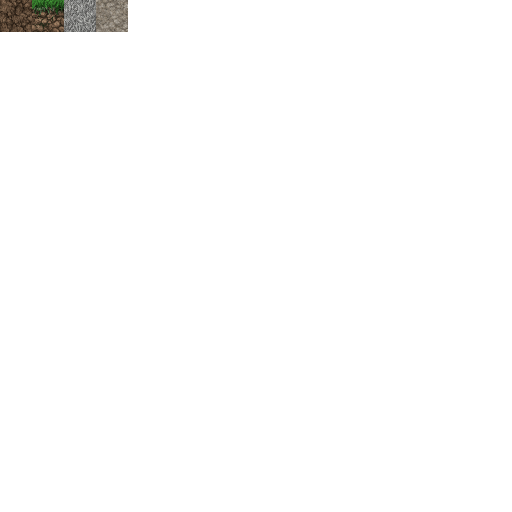
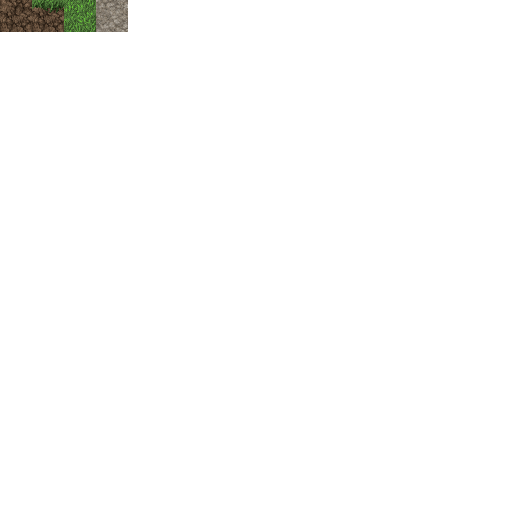
block face support

Changed region(s): [[0.0625, 0.0, 0.1875, 0.0625]]

diff --git a/engine/src/renderer.c b/engine/src/renderer.c
@@ -20,6 +20,7 @@ static void renderer_create_full_screen_buffer(void);
 static void renderer_create_chunk_mask_buffer(void);
 static void renderer_create_chunk_vertex_buffer(void);
 static void renderer_create_chunk_index_buffer(void);
+static void renderer_create_block_buffer(void);
 
 static void renderer_create_chunk_data_image(void);
 static void renderer_create_block_atlas_image(void);
@@ -179,7 +180,7 @@ static VkDescriptorPoolSize const s_vdb_mask_generator_descriptor_pool_size[] = 
 static VkDescriptorPoolSize const s_vdb_greedy_mesher_descriptor_pool_size[] = {
   {
     .type = VK_DESCRIPTOR_TYPE_STORAGE_BUFFER,
-    .descriptorCount = 4,
+    .descriptorCount = 5,
   },
   {
     .type = VK_DESCRIPTOR_TYPE_STORAGE_IMAGE,
@@ -310,6 +311,13 @@ static VkDescriptorSetLayoutBinding const s_vdb_greedy_mesher_descriptor_set_lay
   },
   {
     .binding = 4,
+    .descriptorType = VK_DESCRIPTOR_TYPE_STORAGE_BUFFER,
+    .descriptorCount = 1,
+    .stageFlags = VK_SHADER_STAGE_COMPUTE_BIT,
+    .pImmutableSamplers = 0,
+  },
+  {
+    .binding = 5,
     .descriptorType = VK_DESCRIPTOR_TYPE_STORAGE_IMAGE,
     .descriptorCount = 1,
     .stageFlags = VK_SHADER_STAGE_COMPUTE_BIT,
@@ -525,6 +533,12 @@ static buffer_t s_chunk_mask_buffer = {
   .buffer_usage_flags = VK_BUFFER_USAGE_STORAGE_BUFFER_BIT,
   .memory_property_flags = VK_MEMORY_PROPERTY_DEVICE_LOCAL_BIT,
 };
+static buffer_t s_block_buffer = {
+  .host_data = g_block,
+  .size = sizeof(g_block),
+  .buffer_usage_flags = VK_BUFFER_USAGE_STORAGE_BUFFER_BIT,
+  .memory_property_flags = VK_MEMORY_PROPERTY_DEVICE_LOCAL_BIT,
+};
 
 static buffer_t *s_chunk_vertex_buffer = 0;
 static buffer_t *s_chunk_index_buffer = 0;
@@ -555,6 +569,7 @@ static VkDescriptorBufferInfo s_chunk_info_descriptor_buffer_info = {0};
 static VkDescriptorBufferInfo s_place_info_descriptor_buffer_info = {0};
 static VkDescriptorBufferInfo s_place_result_descriptor_buffer_info = {0};
 static VkDescriptorBufferInfo s_chunk_mask_descriptor_buffer_info = {0};
+static VkDescriptorBufferInfo s_block_descriptor_buffer_info = {0};
 
 static VkDescriptorBufferInfo *s_chunk_vertex_descriptor_buffer_info = 0;
 static VkDescriptorBufferInfo *s_chunk_index_descriptor_buffer_info = 0;
@@ -574,6 +589,7 @@ void renderer_create(void) {
   renderer_create_chunk_mask_buffer();
   renderer_create_chunk_vertex_buffer();
   renderer_create_chunk_index_buffer();
+  renderer_create_block_buffer();
 
   renderer_create_chunk_data_image();
   renderer_create_block_atlas_image();
@@ -972,6 +988,13 @@ static void renderer_create_chunk_index_buffer(void) {
     chunk_index++;
   }
 }
+static void renderer_create_block_buffer(void) {
+  buffer_create(&s_block_buffer);
+
+  s_block_descriptor_buffer_info.offset = 0;
+  s_block_descriptor_buffer_info.buffer = s_block_buffer.buffer_handle;
+  s_block_descriptor_buffer_info.range = VK_WHOLE_SIZE;
+}
 
 static void renderer_create_chunk_data_image(void) {
   s_chunk_data_image = (image_t *)HEAP_ALLOC(sizeof(image_t) * CHUNK_COUNT, 1, 0);
@@ -1206,6 +1229,18 @@ static void renderer_update_vdb_greedy_mesher_descriptor_set(void) {
         .pNext = 0,
         .dstSet = s_vdb_greedy_mesher_pipeline.descriptor_set[chunk_index],
         .dstBinding = 4,
+        .dstArrayElement = 0,
+        .descriptorType = VK_DESCRIPTOR_TYPE_STORAGE_BUFFER,
+        .descriptorCount = 1,
+        .pImageInfo = 0,
+        .pBufferInfo = &s_block_descriptor_buffer_info,
+        .pTexelBufferView = 0,
+      },
+      {
+        .sType = VK_STRUCTURE_TYPE_WRITE_DESCRIPTOR_SET,
+        .pNext = 0,
+        .dstSet = s_vdb_greedy_mesher_pipeline.descriptor_set[chunk_index],
+        .dstBinding = 5,
         .dstArrayElement = 0,
         .descriptorType = VK_DESCRIPTOR_TYPE_STORAGE_IMAGE,
         .descriptorCount = 1,
@@ -1683,6 +1718,7 @@ static void renderer_destroy_buffer(void) {
   buffer_destroy(&s_place_info_buffer);
   buffer_destroy(&s_place_result_buffer);
   buffer_destroy(&s_chunk_mask_buffer);
+  buffer_destroy(&s_block_buffer);
 
   int32_t chunk_index = 0;
   int32_t chunk_count = CHUNK_COUNT;

diff --git a/engine/include/block.h b/engine/include/block.h
@@ -1,0 +1,41 @@
+#ifndef BLOCK_H
+#define BLOCK_H
+
+#define BLOCK_COUNT (2)
+
+typedef enum block_type_t {
+  BLOCK_TYPE_DIRT = 0,
+  BLOCK_TYPE_GRASS,
+  BLOCK_TYPE_GRASSY_DIRT,
+  BLOCK_TYPE_STONE,
+  BLOCK_TYPE_COUNT,
+} block_type_t;
+
+typedef enum block_face_t {
+  BLOCK_FACE_NORTH = 0,
+  BLOCK_FACE_SOUTH,
+  BLOCK_FACE_WEST,
+  BLOCK_FACE_EAST,
+  BLOCK_FACE_TOP,
+  BLOCK_FACE_BOTTOM,
+  BLOCK_FACE_COUNT,
+} block_face_t;
+
+typedef struct block_t {
+  block_type_t block_type;
+  uint32_t block_face_atlas_id[BLOCK_FACE_COUNT];
+} block_t;
+
+STATIC_ASSERT(ALIGNOF(block_t) == 4);
+
+#ifdef __cplusplus
+extern "C" {
+#endif // __cplusplus
+
+extern block_t g_block[BLOCK_TYPE_COUNT];
+
+#ifdef __cplusplus
+}
+#endif // __cplusplus
+
+#endif // BLOCK_H

diff --git a/engine/src/block.c b/engine/src/block.c
@@ -1,0 +1,48 @@
+#include <pch.h>
+
+block_t g_block[BLOCK_TYPE_COUNT] = {
+  {
+    .block_type = BLOCK_TYPE_DIRT,
+    .block_face_atlas_id = {
+      0,
+      0,
+      0,
+      0,
+      0,
+      0,
+    },
+  },
+  {
+    .block_type = BLOCK_TYPE_GRASS,
+    .block_face_atlas_id = {
+      2,
+      2,
+      2,
+      2,
+      2,
+      2,
+    },
+  },
+  {
+    .block_type = BLOCK_TYPE_GRASSY_DIRT,
+    .block_face_atlas_id = {
+      1,
+      2, // Top
+      1,
+      1,
+      0, // Bottom
+      1,
+    },
+  },
+  {
+    .block_type = BLOCK_TYPE_STONE,
+    .block_face_atlas_id = {
+      3,
+      3,
+      3,
+      3,
+      3,
+      3,
+    },
+  },
+};

diff --git a/engine/include/vdb.h b/engine/include/vdb.h
@@ -1,12 +1,12 @@
 #ifndef VDB_H
 #define VDB_H
 
-#define CLUSTER_DIM_X (10)
+#define CLUSTER_DIM_X (3)
 #define CLUSTER_DIM_Y (3)
-#define CLUSTER_DIM_Z (10)
+#define CLUSTER_DIM_Z (3)
 
 #define CHUNK_SIZE (32)
-#define CHUNK_COUNT (300)
+#define CHUNK_COUNT (27)
 
 #ifdef __cplusplus
 extern "C" {

diff --git a/engine/include/pch.h b/engine/include/pch.h
@@ -43,6 +43,7 @@
 #include <transform.h>
 #include <camera.h>
 
+#include <block.h>
 #include <vdb.h>
 #include <structure.h>
 #include <pipeline.h>
